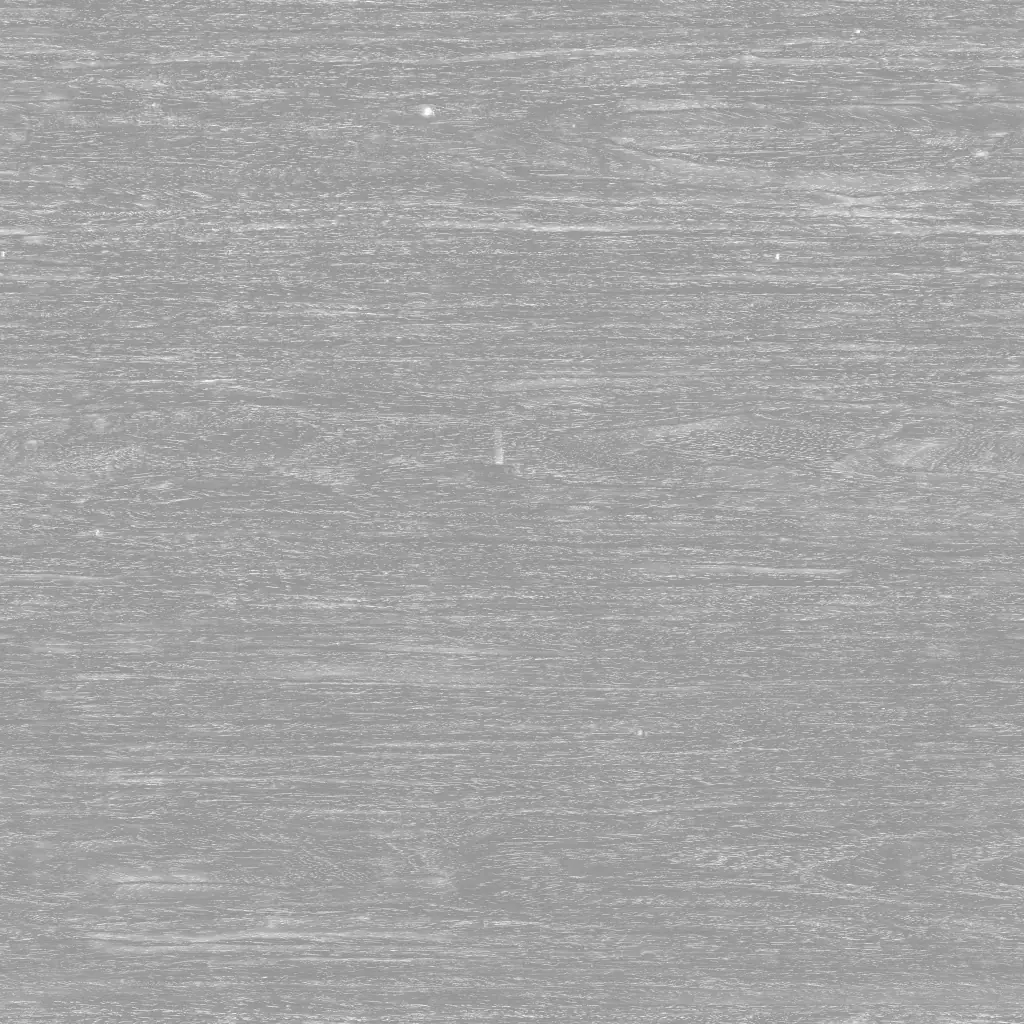
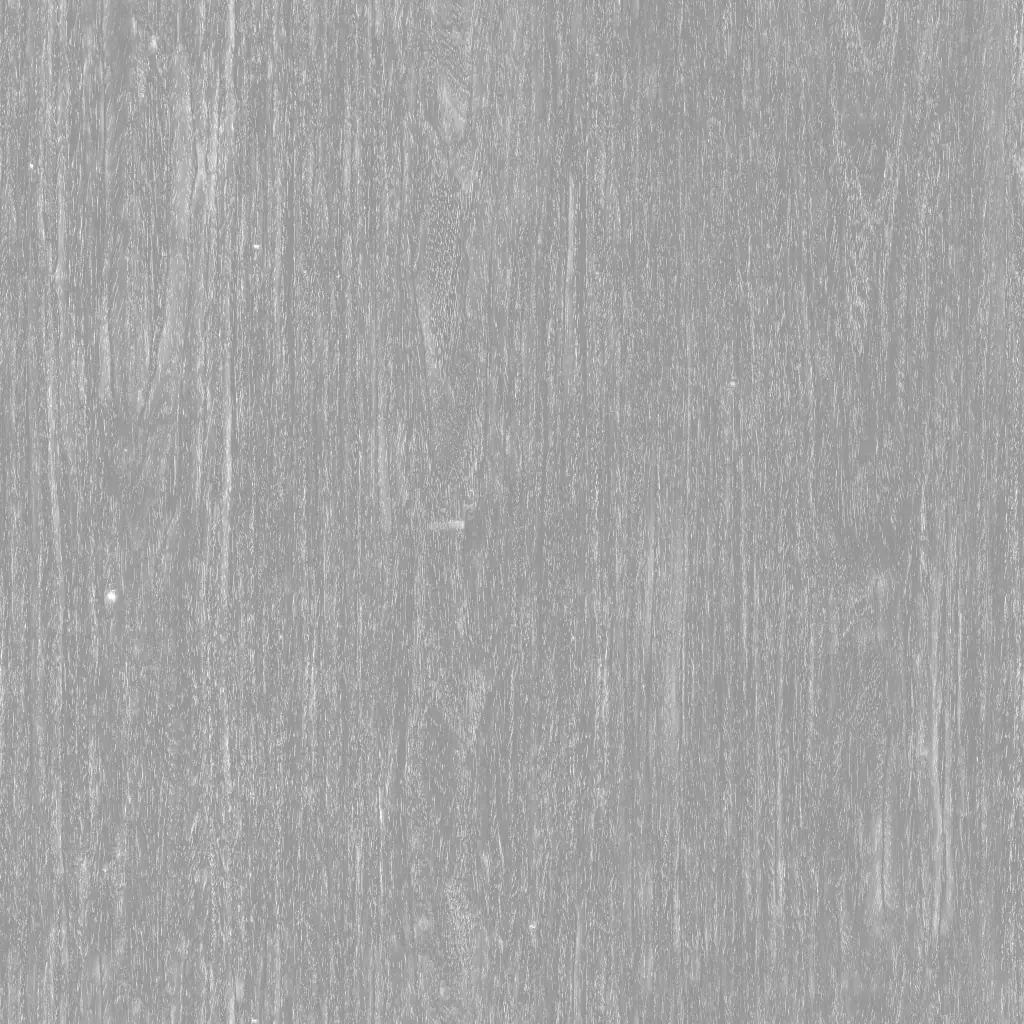
Стул по фото: перекладина перед спинкой, широкая обёрнутая спинка, тёмный орех, покачивание в hero
- перекладина плоского сечения проходит перед нижней третью спинки и выступает за её края, задние ножки
  идут от пола вперёд-вверх к её концам; спинка 65 см по дуге, обхват ~130°, ниже над сиденьем
- дерево: волокно ореха повёрнуто вдоль элементов (карты повёрнуты на 90°, нормали пересчитаны),
  оттенки темнее и спокойнее; сечение sweep с параметром aspect
- в hero стул не вращается, а покачивается вокруг ракурса с фото (перетаскивание работает)

Changed region(s): [[0.0, 0.0, 1.0, 1.0]]

diff --git a/assets/js/scene.js b/assets/js/scene.js
@@ -41,10 +41,10 @@ const FABRICS = {
 };
 // дерево: серая карта волокна × точный оттенок, сатиновый лак (clearcoat)
 const FRAMES = {
-  walnut:     { name: 'Орех', gray: 'walnut_gray', color: 0x7b5335, nor: 'walnut_nor', rough: 'walnut_rough', tile: 0.7, normalScale: 0.5, roughness: 0.55, clearcoat: 0.18, clearcoatRoughness: 0.35 },
-  smoked_oak: { name: 'Копчёный дуб', gray: 'oak_gray', color: 0x5c483c, nor: 'oak_nor', rough: 'oak_rough', tile: 0.9, normalScale: 0.55, roughness: 0.6, clearcoat: 0.12, clearcoatRoughness: 0.4 },
-  oak_light:  { name: 'Светлый дуб', gray: 'oak_gray', color: 0xcdb391, nor: 'oak_nor', rough: 'oak_rough', tile: 0.9, normalScale: 0.55, roughness: 0.6, clearcoat: 0.1, clearcoatRoughness: 0.4 },
-  ash_black:  { name: 'Чёрный ясень', gray: 'oak_gray', color: 0x28241f, nor: 'oak_nor', rough: 'oak_rough', tile: 0.9, normalScale: 0.5, roughness: 0.55, clearcoat: 0.1, clearcoatRoughness: 0.4 }
+  walnut:     { name: 'Орех', gray: 'walnut_gray', color: 0x5f4a3b, nor: 'walnut_nor', rough: 'walnut_rough', tile: 0.6, normalScale: 0.4, roughness: 0.58, clearcoat: 0.08, clearcoatRoughness: 0.45 },
+  smoked_oak: { name: 'Копчёный дуб', gray: 'oak_gray', color: 0x544840, nor: 'oak_nor', rough: 'oak_rough', tile: 0.8, normalScale: 0.45, roughness: 0.62, clearcoat: 0.06, clearcoatRoughness: 0.5 },
+  oak_light:  { name: 'Светлый дуб', gray: 'oak_gray', color: 0xc6ad8b, nor: 'oak_nor', rough: 'oak_rough', tile: 0.8, normalScale: 0.45, roughness: 0.6, clearcoat: 0.06, clearcoatRoughness: 0.5 },
+  ash_black:  { name: 'Чёрный ясень', gray: 'oak_gray', color: 0x26221e, nor: 'oak_nor', rough: 'oak_rough', tile: 0.8, normalScale: 0.4, roughness: 0.55, clearcoat: 0.08, clearcoatRoughness: 0.45 }
 };
 
 /* ---------- ключевые кадры (состояние кресла по разделам) ----------
@@ -55,10 +55,10 @@ const FRAMES = {
    split — режим «сетка | рендер». m — переопределения для мобильных.            */
 const KF = [
   { id: 'hero',     anchor: '#heroDrag',      at: 'zero',
-    d: { nx: 0, ny: 0, s: 1, ry: 0.5, ex: 0, wire: 0, clip: 1, op: 1, wc: 0, spin: 1, split: 0 },
+    d: { nx: 0, ny: 0, s: 1, ry: 0.62, ex: 0, wire: 0, clip: 1, op: 1, wc: 0, spin: 0, osc: 0.3, split: 0 },
     m: { nx: 0, ny: 0.25, s: 0.5, op: 0 } },
   { id: 'why',      anchor: '.why__stage',    at: 'center',
-    d: { s: 0.95, ry: 1.9, ex: 0, wire: 0, clip: 1, op: 1, wc: 1, spin: 0.5, split: 0 },
+    d: { s: 0.95, ry: 1.9, ex: 0, wire: 0, clip: 1, op: 1, wc: 1, spin: 0.5, osc: 0, split: 0 },
     m: { nx: 0, ny: 0.3, s: 0.5, op: 0 } },
   { id: 'why_out',  anchor: null, at: ['#why', 0.4],
     d: { nx: -0.55, ny: 0.35, s: 0.6, ry: 2.5, ex: 0.2, wire: 0, clip: 1, op: 0, wc: 1, spin: 0.5, split: 0 } },
@@ -81,28 +81,30 @@ const KF = [
   { id: 'cta',      anchor: '.cta__stage',   at: 'center',
     d: { s: 1.05, ry: 11.8, ex: 0.4, wire: 0.8, clip: 0, op: 0, wc: 0, spin: 0.35, split: 0 }, m: { s: 0.8, ex: 0.3 } }
 ];
-const NUM_FIELDS = ['s', 'ry', 'ex', 'wire', 'clip', 'op', 'wc', 'spin', 'split'];
+const NUM_FIELDS = ['s', 'ry', 'ex', 'wire', 'clip', 'op', 'wc', 'spin', 'osc', 'split'];
 
 /* ---------- геометрия: «протяжка» круглого сечения вдоль кривой ---------- */
 function sweep(points, radius, opts = {}) {
   const curve = new THREE.CatmullRomCurve3(points.map(p => new THREE.Vector3(p[0], p[1], p[2])), false, 'centripetal', 0.5);
-  const segs = opts.segments || 40, radial = opts.radial || 18, tile = opts.tile || 0.25;
+  const segs = opts.segments || 40, radial = opts.radial || 18, tile = opts.tile || 0.25, aspect = opts.aspect || 1;
   const frames = curve.computeFrenetFrames(segs, false);
   const lengths = curve.getLengths(segs);
   const pos = [], nor = [], uv = [], idx = [];
   const rAt = t => (typeof radius === 'function' ? radius(t) : radius);
+  const tmpN = new THREE.Vector3();
   for (let i = 0; i <= segs; i++) {
     const t = i / segs;
     const p = curve.getPointAt(t);
-    const r = rAt(t);
+    const rn = rAt(t), rb = rn * aspect;
     const N = frames.normals[i], B = frames.binormals[i];
     for (let j = 0; j <= radial; j++) {
       const a = (j / radial) * Math.PI * 2;
       const sin = Math.sin(a), cos = -Math.cos(a);
-      const nx = cos * N.x + sin * B.x, ny = cos * N.y + sin * B.y, nz = cos * N.z + sin * B.z;
-      pos.push(p.x + r * nx, p.y + r * ny, p.z + r * nz);
-      nor.push(nx, ny, nz);
-      uv.push((j / radial) * ((2 * Math.PI * r) / tile), lengths[i] / tile);
+      pos.push(p.x + cos * rn * N.x + sin * rb * B.x, p.y + cos * rn * N.y + sin * rb * B.y, p.z + cos * rn * N.z + sin * rb * B.z);
+      tmpN.set(cos / rn * N.x + sin / rb * B.x, cos / rn * N.y + sin / rb * B.y, cos / rn * N.z + sin / rb * B.z).normalize();
+      nor.push(tmpN.x, tmpN.y, tmpN.z);
+      // волокно вдоль элемента: v — по длине, u — по окружности
+      uv.push((j / radial) * ((Math.PI * (rn + rb)) / tile), lengths[i] / tile);
     }
   }
   for (let i = 0; i < segs; i++) for (let j = 0; j < radial; j++) {
@@ -122,6 +124,17 @@ function sweep(points, radius, opts = {}) {
     const p = curve.getPointAt(end);
     const r = rAt(end);
     const s = new THREE.SphereGeometry(r, 18, 12);
+    if (aspect !== 1) {
+      const B = frames.binormals[end ? segs : 0];
+      // вытягиваем сферу вдоль бинормали под эллиптическое сечение
+      const m = new THREE.Matrix4().makeBasis(new THREE.Vector3(1, 0, 0), new THREE.Vector3(0, 1, 0), new THREE.Vector3(0, 0, 1));
+      const sc = new THREE.Matrix4().makeScale(1, 1, 1);
+      const q = new THREE.Quaternion().setFromUnitVectors(new THREE.Vector3(0, 1, 0), B.clone().normalize());
+      s.applyMatrix4(new THREE.Matrix4().makeRotationFromQuaternion(q.clone().invert()));
+      s.scale(1, aspect, 1);
+      s.applyMatrix4(new THREE.Matrix4().makeRotationFromQuaternion(q));
+      void m; void sc;
+    }
     s.translate(p.x, p.y, p.z);
     parts.push(s);
   });
@@ -337,53 +350,55 @@ function init() {
   }
 
   /* ---------- стул (origin — центр пола под стулом) ----------
-     Пропорции с референса: сиденье-«таблетка» ~50×47 см на высоте 46 см, обёрнутая спинка 53×25 см
-     на изогнутой деревянной перекладине, четыре точёные ножки, задние уходят вверх к перекладине. */
+     Пропорции с фото: широкая обёрнутая спинка 56×28 см, низко над сиденьем, на плоской изогнутой
+     перекладине, которая обхватывает её сзади и выступает по бокам; сиденье-«таблетка» 52×48 см на высоте
+     47 см; четыре точёные расставленные ножки, задние идут вверх к концам перекладины.                */
   const chair = new THREE.Group();
   scene.add(chair);
   const parts = [];
-  const CHAIR_H = 0.85, CHAIR_W = 0.56, CHAIR_CY = 0.43, FIT_W = 0.8, FIT_H = 0.9;
+  const CHAIR_H = 0.86, CHAIR_W = 0.6, CHAIR_CY = 0.44, FIT_W = 0.84, FIT_H = 0.92;
 
-  // спинка: плоская панель → UV → изгиб вокруг вертикальной оси → наклон назад
-  const R_MID = 0.258, BACK_Y = 0.715, ARC_Z = 0.01;
-  const backTilt = new THREE.Matrix4().makeTranslation(0, 0.45, -0.2)
-    .multiply(new THREE.Matrix4().makeRotationX(-0.12))
-    .multiply(new THREE.Matrix4().makeTranslation(0, -0.45, 0.2));
-  // спинку строим «лёжа» (толщина по Y, выпуклость на верхней грани) → ставим вертикально → гнём по дуге
-  const backGeo = pillow(0.53, 0.25, 0.07, 0.032, 2.4, 0.012, Math.PI / 2);
+  // спинка: широкая (65 см по дуге), обхватывает сидящего на ~130°, низко над сиденьем
+  const BACK_W = 0.65, BACK_H = 0.29, BACK_T = 0.065;
+  const R_MID = 0.285, BACK_Y = 0.70;
+  const ARC_Z = -0.24 + R_MID - BACK_T / 2;          // лицевая поверхность спинки по центру — у заднего края сиденья
+  const backTilt = new THREE.Matrix4().makeTranslation(0, 0.47, -0.2)
+    .multiply(new THREE.Matrix4().makeRotationX(-0.1))
+    .multiply(new THREE.Matrix4().makeTranslation(0, -0.47, 0.2));
+  const backGeo = pillow(BACK_W, BACK_H, BACK_T, 0.03, 2.6, 0.012, Math.PI / 2);
   backGeo.rotateX(Math.PI / 2);                     // ширина X, высота Y, толщина Z (+Z — лицевая сторона)
   bendAroundY(backGeo, R_MID);
   backGeo.translate(0, BACK_Y, ARC_Z);
   backGeo.applyMatrix4(backTilt);
 
-  // сиденье: круглый суперэллипс со скруглённой кромкой и пухлым верхом
-  const seatGeo = pillow(0.5, 0.48, 0.09, 0.04, 2.2, 0.03, -Math.PI / 2);
+  // сиденье: суперэллипс со скруглённой кромкой и пухлым верхом
+  const seatGeo = pillow(0.53, 0.49, 0.085, 0.036, 2.4, 0.026, -Math.PI / 2);
   seatGeo.translate(0, 0.45, 0.0);
 
-  // изогнутая перекладина спинки (дуга за спинкой, концы выступают по бокам)
-  const R_RAIL = 0.31, RAIL_Y = 0.64;
+  // перекладина: плоская (4.5 × 3 см) дуга ПЕРЕД нижней третью спинки, концы выступают за её края
+  const R_RAIL = R_MID - BACK_T / 2 - 0.012, RAIL_Y = BACK_Y - BACK_H / 2 + 0.085, RAIL_A = 80;
   const railPts = [];
-  for (let i = 0; i <= 12; i++) {
-    const a = THREE.MathUtils.degToRad(-68 + (136 * i) / 12);
+  for (let i = 0; i <= 14; i++) {
+    const a = THREE.MathUtils.degToRad(-RAIL_A + (2 * RAIL_A * i) / 14);
     railPts.push(new THREE.Vector3(R_RAIL * Math.sin(a), RAIL_Y, ARC_Z - R_RAIL * Math.cos(a)).applyMatrix4(backTilt));
   }
-  const railGeo = sweep(railPts.map(p => [p.x, p.y, p.z]), t => 0.0165 + 0.002 * Math.sin(t * Math.PI), { segments: 48, radial: 18, tile: 0.7 });
+  const railGeo = sweep(railPts.map(p => [p.x, p.y, p.z]), 0.015, { segments: 56, radial: 20, tile: 0.6, aspect: 1.5 });
 
-  // ножки: точёные, с сужением к полу; задние — до перекладины
-  const jointA = THREE.MathUtils.degToRad(52.2);
+  // ножки: точёные, с сужением к полу; передние наклонены вперёд, задние от пола идут вперёд-вверх к концам перекладины
+  const jointA = THREE.MathUtils.degToRad(74);
   const legTaper = (top, bottom) => t => bottom + (top - bottom) * t; // t: 0 у пола → 1 вверху
   function rearLeg(sign) {
-    const top = new THREE.Vector3(R_RAIL * Math.sin(jointA) * sign, RAIL_Y, ARC_Z - R_RAIL * Math.cos(jointA)).applyMatrix4(backTilt);
-    return sweep([[sign * 0.205, 0, -0.14], [sign * 0.215, 0.41, -0.17], [top.x, top.y, top.z]], legTaper(0.017, 0.012), { segments: 24, caps: [true, false], tile: 0.7 });
+    const top = new THREE.Vector3(R_RAIL * Math.sin(jointA) * sign, RAIL_Y - 0.004, ARC_Z - R_RAIL * Math.cos(jointA)).applyMatrix4(backTilt);
+    return sweep([[sign * 0.24, 0, -0.2], [sign * 0.238, 0.4, -0.12], [top.x, top.y, top.z]], legTaper(0.019, 0.013), { segments: 24, caps: [true, false], tile: 0.6 });
   }
-  const frontLeg = sign => sweep([[sign * 0.215, 0, 0.19], [sign * 0.2, 0.41, 0.16]], legTaper(0.016, 0.0115), { segments: 12, caps: [true, false], tile: 0.7 });
-  const rail = (a, b) => sweep([a, b], 0.013, { segments: 6, caps: [false, false], tile: 0.7 });
+  const frontLeg = sign => sweep([[sign * 0.245, 0, 0.26], [sign * 0.215, 0.4, 0.19]], legTaper(0.018, 0.0125), { segments: 12, caps: [true, false], tile: 0.6 });
+  const rail = (a, b) => sweep([a, b], 0.0135, { segments: 6, caps: [false, false], tile: 0.6 });
   const frameGeo = mergeGeometries([
     frontLeg(-1), frontLeg(1),
-    rail([-0.2, 0.405, 0.16], [0.2, 0.405, 0.16]),
-    rail([-0.2, 0.405, 0.16], [-0.215, 0.405, -0.17]),
-    rail([0.2, 0.405, 0.16], [0.215, 0.405, -0.17]),
-    rail([-0.215, 0.405, -0.17], [0.215, 0.405, -0.17])
+    rail([-0.215, 0.4, 0.19], [0.215, 0.4, 0.19]),
+    rail([-0.215, 0.4, 0.19], [-0.238, 0.4, -0.12]),
+    rail([0.215, 0.4, 0.19], [0.238, 0.4, -0.12]),
+    rail([-0.238, 0.4, -0.12], [0.238, 0.4, -0.12])
   ], false);
 
   function addPart(geo, role, explode, spin, i) {
@@ -578,7 +593,8 @@ function init() {
     const float = TD.reduced ? 0 : Math.sin(t * 1.3) * 0.015 * (1 - st.ex);
     chair.scale.setScalar(scale);
     chair.position.set(st.nx * visibleW, CAM.look.y + st.ny * visibleH - CHAIR_CY * scale + float, 0);
-    chair.rotation.set(-TD.pointer.y * 0.06, st.ry + spinAngle + dragAngle + TD.pointer.x * 0.22, 0);
+    const osc = (TD.reduced ? 0 : Math.sin(t * 0.45) * (st.osc || 0));
+    chair.rotation.set(-TD.pointer.y * 0.06, st.ry + osc + spinAngle + dragAngle + TD.pointer.x * 0.22, 0);
 
     // ключевой свет следует за креслом, чтобы тень всегда попадала в карту теней
     key.position.set(chair.position.x + 2.2, chair.position.y + 4.2, chair.position.z + 2.4);
